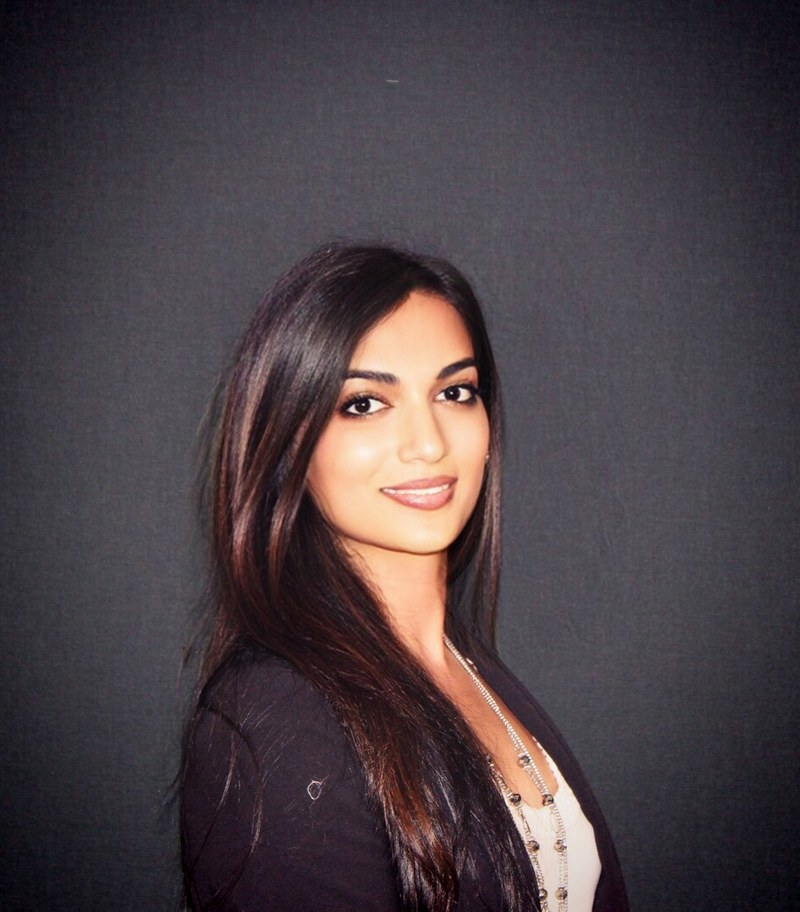
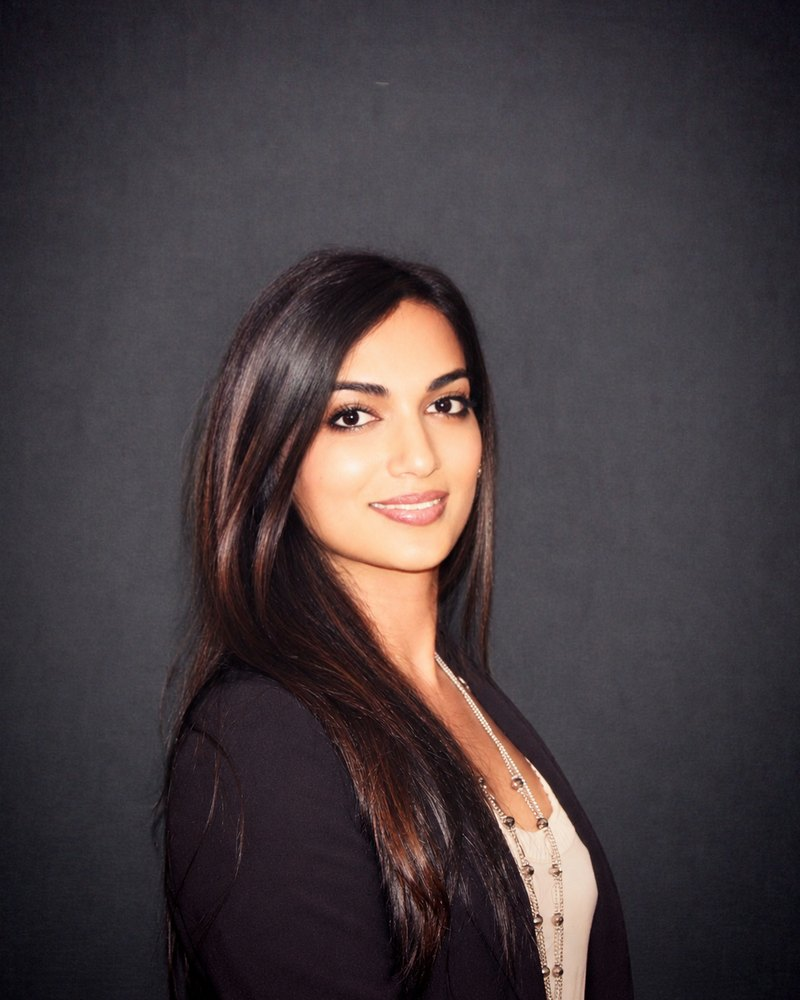
Add files via upload

diff --git a/index.html b/index.html
@@ -35,7 +35,7 @@
         "@id": "https://siastevens.com/#author",
         "name": "Sia Stevens",
         "url": "https://siastevens.com/",
-        "image": "https://siastevens.com/images/sia-stevens-headshot.jpg",
+        "image": "https://siastevens.com/images/sia-stevens.jpg",
         "jobTitle": "Author and relationship educator",
         "description": "Seattle author and relationship educator. Former software engineer and MBA. Author of What Happened to Us and A Million Green Flags; creator of Modern Relationships 101; founder of Alt Therapy.",
         "sameAs": [
@@ -678,7 +678,7 @@
   <span id="author" class="anchor" aria-hidden="true"></span>
   <div class="wrap">
     <div class="au-inner reveal">
-      <div class="au-photo"><img src="/images/sia-stevens-author.jpg" width="800" height="1000" alt="Sia Stevens, author of What Happened to Us and A Million Green Flags"></div>
+      <div class="au-photo"><img src="/images/sia-stevens.jpg" width="800" height="1000" alt="Sia Stevens, author of What Happened to Us and A Million Green Flags"></div>
       <div class="ct-body">
         <p class="label">Contact</p>
         <h2 class="h2">Media, events, and everything else.</h2>

diff --git a/amgf/index.html b/amgf/index.html
@@ -43,7 +43,7 @@
       "@id": "https://siastevens.com/#author",
       "name": "Sia Stevens",
       "url": "https://siastevens.com/",
-      "image": "https://siastevens.com/images/sia-stevens-headshot.jpg",
+      "image": "https://siastevens.com/images/sia-stevens.jpg",
       "jobTitle": "Author and relationship educator",
       "homeLocation": { "@type": "Place", "name": "Seattle, Washington" },
       "description": "Seattle author and relationship educator. Former software engineer and MBA. Author of What Happened to Us and A Million Green Flags; creator of Modern Relationships 101.",
@@ -695,7 +695,7 @@ footer a:hover{text-decoration:underline}
 <!-- AUTHOR -->
 <section class="band author" aria-labelledby="au-h">
   <div class="stage">
-    <img src="media/sia-stevens-author.webp" width="640" height="800" loading="lazy" alt="Portrait of author Sia Stevens">
+    <img src="/images/sia-stevens.jpg" width="800" height="1000" loading="lazy" alt="Portrait of author Sia Stevens">
     <div>
       <p class="eyebrow">About the author</p>
       <h2 class="h2" id="au-h">Sia Stevens</h2>

diff --git a/whtu/index.html b/whtu/index.html
@@ -43,7 +43,7 @@
       "@id": "https://siastevens.com/#author",
       "name": "Sia Stevens",
       "url": "https://siastevens.com/",
-      "image": "https://siastevens.com/images/sia-stevens-headshot.jpg",
+      "image": "https://siastevens.com/images/sia-stevens.jpg",
       "jobTitle": "Author and relationship educator",
       "homeLocation": { "@type": "Place", "name": "Seattle, Washington" },
       "description": "Seattle author and relationship educator. Former software engineer and MBA. Author of What Happened to Us and A Million Green Flags.",
@@ -658,7 +658,7 @@ footer a:hover{text-decoration:underline}
 <!-- AUTHOR -->
 <section class="band author" aria-labelledby="au-h">
   <div class="stage">
-    <img src="media/sia-stevens-author.webp" width="640" height="800" loading="lazy" alt="Portrait of author Sia Stevens">
+    <img src="/images/sia-stevens.jpg" width="800" height="1000" loading="lazy" alt="Portrait of author Sia Stevens">
     <div>
       <p class="kicker">About the author</p>
       <h2 class="h2" id="au-h">Sia Stevens</h2>
